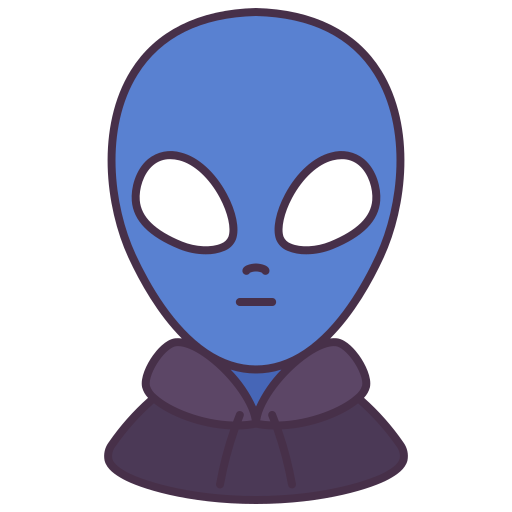
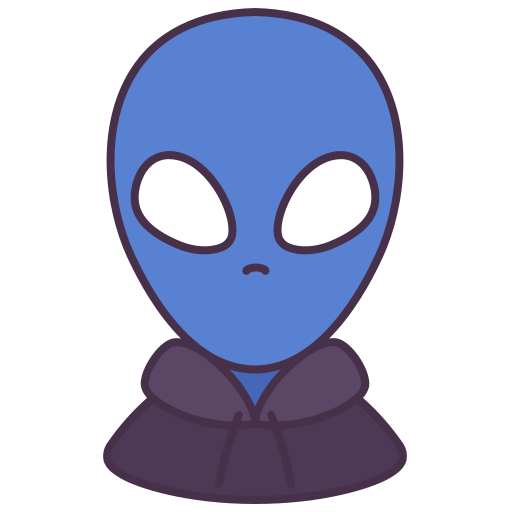
refac and fix iphone

diff --git a/index.html b/index.html
@@ -2,7 +2,8 @@
 <html lang="en-US">
 	<header>
 		<meta http-equiv="Content-Type" content="text/html; charset=UTF-8">
-		<meta name="viewport" content="width=device-width,initial-scale=1.0,maximum-scale=1.0,user-scalable=no,viewport-fit=cover">
+		<meta name="viewport"
+			content="width=device-width,initial-scale=1.0,maximum-scale=1.0,user-scalable=no,viewport-fit=cover">
 		<meta property="og:url" content="https://et7ro.github.io/ETgarela" />
 		<meta property="og:title" content="The Chatty ET">
 		<meta property="og:image" content="https://et7ro.github.io/ETgarela/etcetero.png">
@@ -11,154 +12,12 @@
 		<meta property="og:image:height" content="512" />
 		<meta property="og:description" content="The Chatty ET">
 		<meta name="description" content="The Chatty ET">
-		<style>
-			*:focus {
-				outline: none;
-			}
-			html {
-				overflow: hidden;
-			}
-			body {
-				margin: 0;
-				overflow: hidden;
-			}
-			figure {
-				position: absolute;
-				bottom: calc(15px + env(safe-area-inset-bottom, 0));
-				width: 150px;
-				height: auto;
-				left: calc(50% - 75px);
-				transform: perspective(150px) rotateX(var(--x-angle)) rotateY(var(--y-angle));
-				filter: drop-shadow(0 0 5px rgba(0,0,0,.75));
-				margin: 0;
-				z-index: 1;
-			}
-			figure img {
-				width: 100%;
-				height: auto;
-				cursor: pointer;
-				-webkit-user-drag: none;
-			}
-			figure:not(.talking):before {
-				visibility: hidden;
-			}
-			figure.talking:before {
-				visibility: visible;
-				animation: talk 250ms infinite;
-			}
-			figure:before {
-				content: "";
-				position: absolute;
-				display: inline-block;
-				top: 56%;
-				left: calc(50% - 8px);
-				width: 12px;
-				height: 0;
-				border-bottom-left-radius: 50%;
-				border-bottom-right-radius: 50%;
-				background-color: #fff;
-				border: 2px solid #46314d;
-				z-index: 2;
-			}
-			@keyframes talk {
-				0% {
-					width: 12px;
-					height: 0;
-					left: calc(50% - 8px);
-				}
-				25% {
-					width: 16px;
-					left: calc(50% - 10px);
-				}
-				50% {
-					width: 12px;
-					height: 7px;
-					left: calc(50% - 8px);
-				}
-				100% {
-					width: 16px;
-					height: 0;
-					left: calc(50% - 10px);
-				}
-			}
-		</style>
+		<link rel="stylesheet" href="style.css">
 	</header>
 	<body>
 		<figure>
-			<img src="etcetero.png" >
+			<img src="etcetero.png">
 		</figure>
-		<script>
-			var synth = new SpeechSynthesisUtterance()
-			var element = document.querySelector('figure')
-			function refreshPosition(x, y) {
-				let invert = false
-				if (x > (document.documentElement.clientWidth/2)) {
-					x = document.documentElement.clientWidth - x
-					invert = true
-				}
-				let dx = (element.offsetLeft + (element.clientWidth/2)) - x
-				let dy = (document.documentElement.clientHeight - (document.documentElement.clientHeight - element.offsetTop - element.clientHeight)) - y
-				let theta = Math.atan2(dy, dx)
-				theta *= 180 / Math.PI
-				let angle = (90 - theta) * 0.5
-				document.documentElement.style.setProperty('--x-angle', `${angle/2}deg`)
-				if (!invert) angle *= -1
-				document.documentElement.style.setProperty('--y-angle', `${angle}deg`)
-			}
-			element.onclick = e => {
-				e.stopPropagation()
-				fetch('https://litipsum.com/api/dracula/1')
-				.then(response => {
-					response.text()
-					.then(text => {
-						setupVoice(text)
-					})
-					.catch(error => {
-						alert(error ?? 'Error')
-					})
-				})
-			}
-			function setupVoice(text) {
-				let voices = speechSynthesis.getVoices().filter(el => el.lang.replace('_', '-') == 'en-US')
-				if (!voices.length) {
-					setTimeout(() => setupVoice(text), 250)
-					return
-				}
-				if (navigator.platform == 'iPhone') {
-					synth.voice = voices[0]
-				} else {
-					synth.voice = voices[1] ?? voices[0]
-				}
-				synth.lang = synth.voice.lang
-				synth.text = text
-				speechSynthesis.cancel()
-				speechSynthesis.speak(synth)
-			}
-			synth.onstart = e => {
-				element.classList.add('talking')
-			}
-			synth.onend = e => {
-				element.classList.remove('talking')
-			}
-			synth.onerror = e => {
-				alert(e ?? 'Error')
-				element.classList.remove('talking')
-			}
-			synth.onpause = e => {
-				element.classList.remove('talking')
-			}
-			window.onmousemove = e => {
-				refreshPosition(e.x, e.y)
-			}
-			window.ontouchmove = e => {
-				refreshPosition(e.targetTouches[0].clientX, e.targetTouches[0].clientY)
-			}
-			window.onpagehide = () => {
-				speechSynthesis.cancel()
-			}
-			window.onclick = e => {
-				speechSynthesis.cancel()
-			}
-		</script>
+		<script src="script.js"></script>
 	</body>
-	</html>
+</html>

diff --git a/script.js b/script.js
@@ -1,0 +1,96 @@
+var audioEnabled = false
+var synth = new SpeechSynthesisUtterance()
+var element = document.querySelector('figure')
+function refreshPosition(x, y) {
+	let invert = false
+	if (x > (document.documentElement.clientWidth / 2)) {
+		x = document.documentElement.clientWidth - x
+		invert = true
+	}
+	let dx = (element.offsetLeft + (element.clientWidth / 2)) - x
+	let dy = (document.documentElement.clientHeight - (document.documentElement.clientHeight - element.offsetTop - element.clientHeight)) - y
+	let theta = Math.atan2(dy, dx)
+	theta *= 180 / Math.PI
+	let angle = (90 - theta) * 0.5
+	document.documentElement.style.setProperty('--x-angle', `${angle / 2}deg`)
+	if (!invert) angle *= -1
+	document.documentElement.style.setProperty('--y-angle', `${angle}deg`)
+}
+document.onreadystatechange = () => {
+	if (document.readyState == 'complete') resize()
+}
+element.onclick = e => {
+	e.preventDefault()
+	fetch('https://litipsum.com/api/dracula/1')
+		.then(response => {
+			response.text()
+				.then(text => {
+					setupVoice(text)
+				})
+				.catch(error => {
+					alert(error ?? 'Error')
+				})
+		})
+}
+function resize() {
+	let size = document.documentElement.clientWidth / 2
+	let mouthSize = Math.round(size * 0.08)
+	if (mouthSize % 2 != 0) mouthSize++
+	document.documentElement.style.setProperty('--size', `${size}px`)
+	document.documentElement.style.setProperty('--mouth-size', `${mouthSize}px`)
+}
+function setupVoice(text) {
+	let actors = ['Microsoft Mark', 'Microsoft Guy', 'Male']
+	if (/iphone|ipad|macos/i.test(navigator.appVersion)) actors.push('Daniel')
+	let voice = speechSynthesis.getVoices().find(el => {
+		let byName = new RegExp(`(${actors.join('|')})`, 'i').test(el.name.toLocaleLowerCase())
+		let byLocal = el?.localService && el?.lang?.replace('_', '-').toLocaleLowerCase() == 'en-us'
+		return byName || byLocal
+	})
+	if (!voice) return setTimeout(() => setupVoice(text), 100)
+	synth.lang = synth.voice?.lang ?? 'en-US'
+	synth.voice = voice
+	synth.text = text
+	speechSynthesis.cancel()
+	speechSynthesis.speak(synth)
+}
+synth.onboundary = e => {
+	let vowel = e?.utterance?.text?.substr(e?.charIndex)?.match(/[aeiou]/)
+	if (vowel) element.classList.add(vowel[0])
+	setTimeout(() => element.classList.remove(vowel[0]), 250)
+}
+synth.onstart = () => {
+	if (/edg/i.test(navigator.appVersion) && (/windows/i.test(navigator.appVersion) || /android/i.test(navigator.appVersion)) ) return
+	element.classList.add('speaking')
+}
+synth.onend = () => {
+	element.classList.remove('speaking')
+}
+/* synth.onerror = e => {
+	alert(`Error: ${e}` ?? 'Error')
+} */
+window.onmousemove = e => {
+	refreshPosition(e.x, e.y)
+}
+window.ontouchmove = e => {
+	e.preventDefault()
+	refreshPosition(e.targetTouches[0].clientX, e.targetTouches[0].clientY)
+}
+window.onpagehide = () => {
+	speechSynthesis.cancel()
+}
+window.onclick = e => {
+	speechSynthesis.cancel()
+}
+window.onresize = () => {
+	resize()
+}
+document.onclick = () => {
+	speechSynthesis.cancel()
+	if (audioEnabled) return
+	synth.text = ''
+	synth.volume = 0
+	speechSynthesis.speak(synth)
+	audioEnabled = true
+	synth.volume = 1
+}

diff --git a/style.css b/style.css
@@ -1,0 +1,125 @@
+* {
+	box-sizing: border-box;
+}
+*:focus {
+	outline: none;
+}
+html {
+	overflow: hidden;
+}
+body {
+	margin: 0;
+	overflow: hidden;
+}
+figure {
+	position: absolute;
+	bottom: calc(calc(var(--size) / 4) + env(safe-area-inset-bottom, 0));
+	width: var(--size);
+	height: auto;
+	left: calc(50% - (var(--size) / 2));
+	transform: perspective(var(--size)) rotateX(var(--x-angle)) rotateY(var(--y-angle));
+	filter: drop-shadow(0 0 5px rgba(0, 0, 0, .75));
+	margin: 0;
+	z-index: 1;
+}
+figure img {
+	width: 100%;
+	height: auto;
+	cursor: pointer;
+	-webkit-user-drag: none;
+}
+figure:before {
+	content: "";
+	display: inline-block;
+	position: absolute;
+	left: calc(50% - calc(var(--mouth-size) / 2));
+	background-color: #fff;
+	border-color: #46314d;
+	border-style: solid;
+	transition: all 100ms;
+	will-change: width, height;
+	box-sizing: border-box;
+	z-index: 2;
+}
+figure:not(.a):not(.e):not(.i):not(.o):not(.u):before {
+	top: 58%;
+	width: var(--mouth-size);
+	height: 2px;
+	border-radius: 50%;
+	background-color: #46314d;
+	left: calc(50% - calc(var(--mouth-size) / 2));
+}
+figure.a:before {
+	top: calc(58% - calc(var(--mouth-size) * 0.75 / 2));
+	width: var(--mouth-size);
+	height: calc(var(--mouth-size) * 0.75);
+	border-top-left-radius: 50%;
+	border-top-right-radius: 50%;
+	border-bottom-left-radius: 25%;
+	border-bottom-right-radius: 25%;
+}
+figure.e:before {
+	top: calc(58% - calc(var(--mouth-size) * 0.75 / 2));
+	width: var(--mouth-size);
+	height: calc(var(--mouth-size) * 0.75);
+	border-bottom-left-radius: 50%;
+	border-bottom-right-radius: 50%;
+	border-top-left-radius: 25%;
+	border-top-right-radius: 25%;
+}
+figure.i:before {
+	top: calc(58% - calc(var(--mouth-size) / 4));
+	width: var(--mouth-size);
+	height: calc(var(--mouth-size) / 2);
+	border-radius: 25%;
+}
+figure.o:before {
+	top: calc(58% - calc(var(--mouth-size) / 2));
+	width: var(--mouth-size);
+	height: var(--mouth-size);
+	border-radius: 50%;
+}
+figure.u:before {
+	top: calc(58% - calc(var(--mouth-size) / 6));
+	left: calc(50% - calc(var(--mouth-size) / 6));
+	width: calc(var(--mouth-size) / 3);
+	height: calc(var(--mouth-size) / 3);
+	border-radius: 50%;
+}
+figure.speaking:before {
+	background-color: #fff !important;
+	animation: speaking 1s infinite;
+}
+@keyframes speaking {
+	25% {
+		top: calc(58% - calc(var(--mouth-size) * 0.75 / 2));
+		width: var(--mouth-size);
+		height: calc(var(--mouth-size) * 0.75);
+		border-top-left-radius: 50%;
+		border-top-right-radius: 50%;
+		border-bottom-left-radius: 25%;
+		border-bottom-right-radius: 25%;
+	}
+	50% {
+		top: calc(58% - calc(var(--mouth-size) / 4));
+		width: var(--mouth-size);
+		height: calc(var(--mouth-size) / 2);
+		border-radius: 25%;
+	}
+	100% {
+		top: calc(58% - calc(var(--mouth-size) / 2));
+		width: var(--mouth-size);
+		height: var(--mouth-size);
+		border-radius: 50%;
+	}
+}
+@media screen and (min-width: 481px) {
+	figure:before {
+		border-width: 4px;
+	}
+}
+@media screen and (max-width: 480px) {
+	figure:before {
+		border-width: 2px;
+	}
+}
